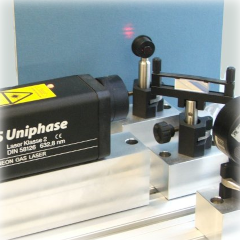
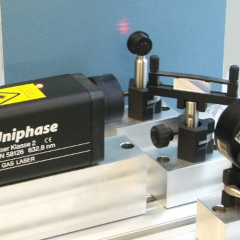
Improves the images and make all the same size.

diff --git a/index.html b/index.html
@@ -12,8 +12,8 @@
 <span class="current">English</span>
 </aside>
 <header>
-<img src="img/jvillate.jpg" class="img-7 right"
-     alt="Jaime Villate" width="294" height="294">
+<img src="img/jvillate.jpg" class="img-6 right"
+     alt="Jaime Villate" width="240" height="240">
 <h1>Jaime Villate</h1>
 <p>Associate Professor<br>
 <a href="http://def.fe.up.pt/index_en.html" target="_blank">Department of Engineering Physics</a><br>
@@ -186,7 +186,7 @@ Secondary School Scholarship. Colegio del Virrey Solís, Bogotá, Colombia.
 </div>
 </div>
 &copy; 2018 &ndash; 2021, <kbd>villate (at) fe.up.pt</kbd> &mdash;
-<span>Last modified: 2021/10/28 12:51:17 UTC</span>
+<span>Last modified: 2021/10/28 21:00:00 UTC</span>
 </footer>
 </body>
 </html>

diff --git a/hobbies.html b/hobbies.html
@@ -12,7 +12,7 @@
 <span class="current">English</span>
 </aside>
 <header>
-<img src="img/hobbies.png" class="img-6 right" alt="hobbies" width="240"
+<img src="img/hobbies.jpg" class="img-6 right" alt="hobbies" width="240"
      height="240">
 <h1>Other interests</h1>
 <p>Jaime E. Villate. University of Porto, Portugal</p>
@@ -105,7 +105,7 @@ worked with the Rochester International Friendship Council in the late
 </div>
 </div>
 &copy; 2018 &ndash; 2021, <kbd>villate (at) fe.up.pt</kbd> &mdash;
-<span>Last modified: 2021/10/28 12:51:00 UTC</span>
+<span>Last modified: 2021/10/28 21:31:04 UTC</span>
 </footer>
 </body>
 </html>

diff --git a/pt/talks/index.html b/pt/talks/index.html
@@ -12,7 +12,7 @@
 <a href="../../talks/index.html">English</a>
 </aside>
 <header>
-<img src="../../img/talks.png" class="img-6 right" alt="talks" width="240"
+<img src="../../img/talks.jpg" class="img-6 right" alt="talks" width="240"
      height="240">
 <h1>Palestras</h1>
 <p>Jaime E. Villate. Universidade do Porto, Portugal</p>
@@ -298,7 +298,7 @@ de Física da Universidade de Coimbra, Portugal. Maio de 1991.
 </div>
 </div>
 &copy; 2018 &ndash; 2021, <kbd>villate (at) fe.up.pt</kbd> &mdash;
-<span>Last modified: 2021/10/24 21:14:43 UTC</span>
+<span>Last modified: 2021/10/28 21:18:07 UTC</span>
 </footer>
 </body>
 </html>

diff --git a/pt/hobbies.html b/pt/hobbies.html
@@ -12,7 +12,7 @@
 <a href="../hobbies.html">English</a>
 </aside>
 <header>
-<img src="../img/hobbies.png" class="img-6 right" alt="hobbies" width="240"
+<img src="../img/hobbies.jpg" class="img-6 right" alt="hobbies" width="240"
      height="240">
 <h1>Outros interesses</h1>
 <p>Jaime E. Villate. Universidade do Porto, Portugal</p>
@@ -104,7 +104,7 @@ e tenho acolhido vários estudantes de diversos países.
 </div>
 </div>
 &copy; 2018 &ndash; 2021, <kbd>villate (at) fe.up.pt</kbd> &mdash;
-<span>Last modified: 2021/10/26 11:45:52 UTC</span>
+<span>Last modified: 2021/10/28 21:31:17 UTC</span>
 </footer>
 </body>
 </html>

diff --git a/pt/index.html b/pt/index.html
@@ -13,7 +13,7 @@
 </aside>
 <header>
 <img src="../img/jvillate.jpg" class="img-7 right"
-     alt="Jaime Villate" width="294" height="294">
+     alt="Jaime Villate" width="240" height="240">
 <h1>Jaime Villate</h1>
 <p>Professor Associado<br>
 <a href="http://def.fe.up.pt/index_en.html" target="_blank">Departamento de Engenharia Física</a><br>
@@ -188,7 +188,7 @@ Colômbia. 1971 &ndash; 1976.
 </div>
 </div>
 &copy; 2018 &ndash; 2021, <kbd>villate (at) fe.up.pt</kbd> &mdash;
-<span>Last modified: 2021/10/24 21:13:03 UTC</span>
+<span>Last modified: 2021/10/28 21:00:27 UTC</span>
 </footer>
 </body>
 </html>

diff --git a/talks/index.html b/talks/index.html
@@ -12,7 +12,7 @@
 <span class="current">English</span>
 </aside>
 <header>
-<img src="../img/talks.png" class="img-6 right" alt="talks" width="240"
+<img src="../img/talks.jpg" class="img-6 right" alt="talks" width="240"
      height="240">
 <h1>Talks</h1>
 <p>Jaime E. Villate. University of Porto, Portugal</p>
@@ -298,7 +298,7 @@ of Physics of the University of Coimbra, Portugal. May 1991.
 </div>
 </div>
 &copy; 2018 &ndash; 2021, <kbd>villate (at) fe.up.pt</kbd> &mdash;
-<span>Last modified: 2021/10/28 12:52:34 UTC</span>
+<span>Last modified: 2021/10/28 21:17:50 UTC</span>
 </footer>
 </body>
 </html>

diff --git a/pt/students.html b/pt/students.html
@@ -12,7 +12,7 @@
 <a href="../students.html">English</a>
 </aside>
 <header>
-<img src="../img/students.png" class="img-7 right" alt="research" width="310"
+<img src="../img/students.jpg" class="img-6 right" alt="research" width="240"
      height="240">
 <h1>Estudantes</h1>
 <p>
@@ -282,7 +282,7 @@ e-learning. baseadas em Software Livre</i>. 2004&mdash;2005.
 </div>
 </div>
 &copy; 2018 &ndash; 2021, <kbd>villate (at) fe.up.pt</kbd> &mdash;
-<span>Last modified: 2021/10/24 21:02:45 UTC</span>
+<span>Last modified: 2021/10/28 21:25:07 UTC</span>
 </footer>
 </body>
 </html>

diff --git a/students.html b/students.html
@@ -12,7 +12,7 @@
 <span class="current">English</span>
 </aside>
 <header>
-<img src="img/students.png" class="img-7 right" alt="research" width="310"
+<img src="img/students.jpg" class="img-6 right" alt="students" width="240"
      height="240">
 <h1>Students</h1>
 <p>
@@ -285,7 +285,7 @@ e-learning. baseadas em Software Livre</i>. 2004&mdash;2005.
 </div>
 </div>
 &copy; 2018 &ndash; 2021, <kbd>villate (at) fe.up.pt</kbd> &mdash;
-<span>Last modified: 2021/10/28 12:52:01 UTC</span>
+<span>Last modified: 2021/10/28 21:27:33 UTC</span>
 </footer>
 </body>
 </html>
